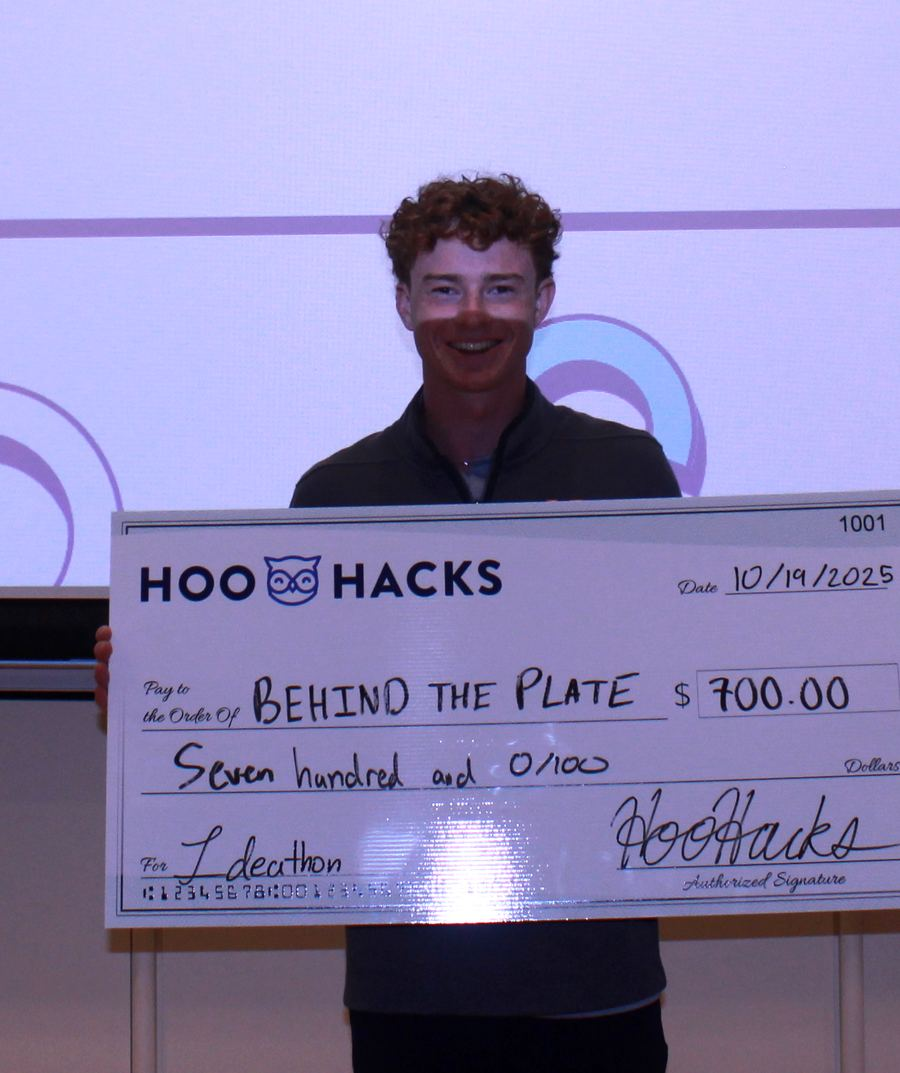
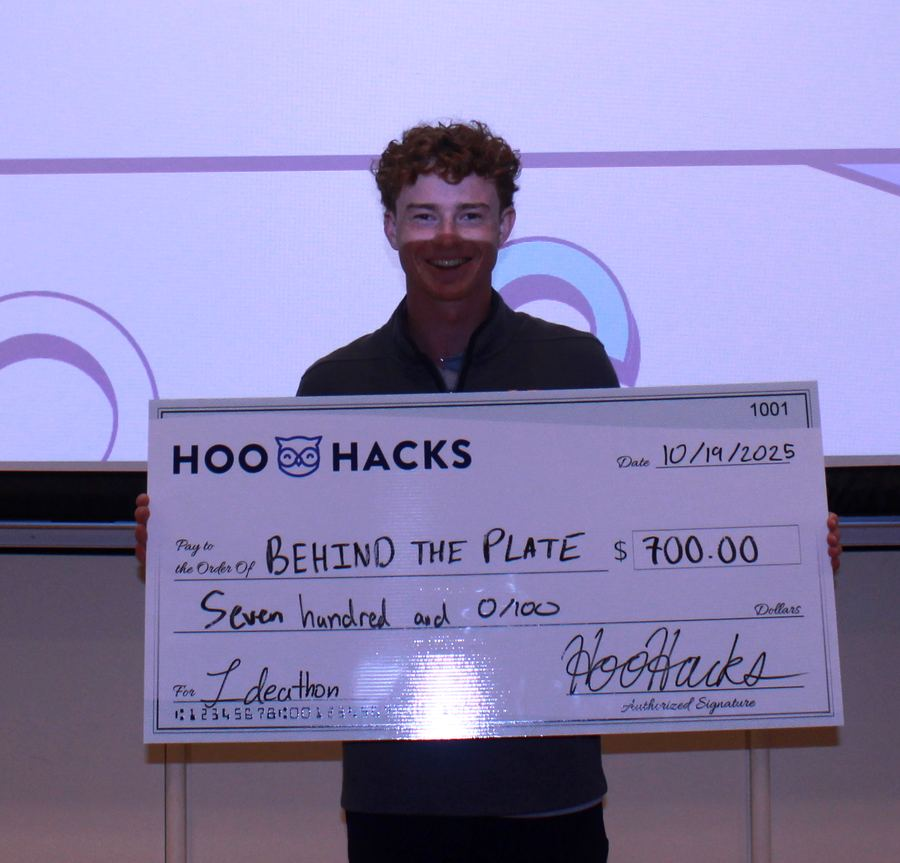
feature one winner photo instead of four so the form stays in view, and centre the sign-in card over the photos

Changed region(s): [[0.0, 0.1205, 1.0, 1.0], [0.8089, 0.9641, 0.84, 1.0]]

diff --git a/src/registrationUi.js b/src/registrationUi.js
@@ -51,53 +51,36 @@ function FactPills({ facts }) {
 }
 
 /**
- * Last year's winners, tiled in two columns at their own heights with tight
- * gutters, the way a board of pins sits. The team and prize are written under
- * each photo rather than laid over it, so the faces and the cheque stay clear.
+ * One photo, large, with what it shows written under it. Four tiles made the
+ * hero taller than the screen and pushed the form out of sight; one picture of
+ * a team holding the cheque says the same thing and leaves the form in view.
+ * Hidden on a phone, where it would sit between the title and the first field.
  */
-function PhotoBoard({ photos, title }) {
+function FeaturedPhoto({ photo, caption }) {
   return (
-    <Box component="section" aria-label={title}>
-      {title && (
-        <Typography variant="body2" sx={{ fontWeight: 600, color: "text.primary", mb: 1.25 }}>
-          {title}
+    <Box
+      component="figure"
+      sx={{ m: 0, display: { xs: "none", md: "block" }, justifySelf: "end", width: "100%", maxWidth: 380 }}
+    >
+      <Box
+        component="img"
+        src={photo.src}
+        alt={photo.alt}
+        width={photo.width}
+        height={photo.height}
+        sx={{
+          display: "block",
+          width: "100%",
+          height: "auto",
+          borderRadius: 4,
+          bgcolor: "action.hover",
+        }}
+      />
+      {caption && (
+        <Typography component="figcaption" variant="body2" sx={{ mt: 1, px: 0.5 }}>
+          {caption}
         </Typography>
       )}
-      <Box sx={{ columnCount: 2, columnGap: "8px" }}>
-        {photos.map((photo) => (
-          <Box
-            component="figure"
-            key={photo.src}
-            sx={{ m: 0, mb: 1.5, breakInside: "avoid" }}
-          >
-            <Box
-              component="img"
-              src={photo.src}
-              alt={photo.alt}
-              width={photo.width}
-              height={photo.height}
-              loading="lazy"
-              sx={{
-                display: "block",
-                width: "100%",
-                height: "auto",
-                borderRadius: 2,
-                bgcolor: "action.hover",
-              }}
-            />
-            {photo.team && (
-              <Box component="figcaption" sx={{ mt: 0.75, px: 0.25 }}>
-                <Typography variant="body2" component="span" sx={{ fontWeight: 700, color: "text.primary" }}>
-                  {photo.team}
-                </Typography>{" "}
-                <Typography variant="body2" component="span">
-                  won {photo.prize}
-                </Typography>
-              </Box>
-            )}
-          </Box>
-        ))}
-      </Box>
     </Box>
   );
 }
@@ -105,25 +88,17 @@ function PhotoBoard({ photos, title }) {
 /**
  * The top of a public page: what it is, when and where, and one sentence on
  * why you would come. `summary` is that sentence; the longer explanation, when
- * there is one, is `children` and sits in its own block under the hero rather
- * than inside it, so the hero reads in a glance.
+ * there is one, is `children`, set quieter under the facts.
  */
-export function Hero({ eyebrow, title, facts, summary, photos, photosTitle, children }) {
-  const hasPhotos = Array.isArray(photos) && photos.length > 0;
-  const details = children && (
-    <Typography variant="body1" sx={{ maxWidth: "62ch" }}>
-      {children}
-    </Typography>
-  );
-
+export function Hero({ eyebrow, title, facts, summary, photo, photoCaption, children }) {
   return (
-    <Box sx={{ pt: { xs: 4, md: 6 }, pb: { xs: 3, md: 4 } }}>
+    <Box sx={{ pt: { xs: 4, md: 6 }, pb: { xs: 3, md: 5 } }}>
       <Box
         sx={{
           display: "grid",
           gap: { xs: 3, md: 6 },
           alignItems: "center",
-          gridTemplateColumns: { xs: "1fr", md: hasPhotos ? "7fr 5fr" : "1fr" },
+          gridTemplateColumns: { xs: "1fr", md: photo ? "1fr auto" : "1fr" },
         }}
       >
         <Box>
@@ -152,21 +127,14 @@ export function Hero({ eyebrow, title, facts, summary, photos, photosTitle, chil
             </Typography>
           )}
           {facts && <FactPills facts={facts} />}
-          {/* without a summary the paragraph is the hero's own copy, as on
-              the closed page; with one, it moves below */}
-          {!summary && details && <Box sx={{ mt: 2.5 }}>{details}</Box>}
+          {children && (
+            <Typography variant="body1" sx={{ mt: 2.5, maxWidth: "58ch", color: "text.secondary" }}>
+              {children}
+            </Typography>
+          )}
         </Box>
-        {hasPhotos && <PhotoBoard photos={photos} title={photosTitle} />}
+        {photo && <FeaturedPhoto photo={photo} caption={photoCaption} />}
       </Box>
-
-      {summary && details && (
-        <Box sx={{ mt: { xs: 4, md: 5 }, p: { xs: 2.5, sm: 3 }, bgcolor: "action.hover", borderRadius: 2 }}>
-          <Typography variant="h3" component="h2" sx={{ mb: 1 }}>
-            About the day
-          </Typography>
-          {details}
-        </Box>
-      )}
     </Box>
   );
 }
@@ -455,6 +423,9 @@ export function PublicShell({ children, maxWidth = "lg", pad = false, backdrop =
              */
             "& input, & textarea": { scrollMarginBottom: 120 },
             ...(pad ? { py: { xs: 5, sm: 8 } } : null),
+            // over photos the card is the only thing on the page, so it sits in
+            // the middle of them rather than at the top with space below
+            ...(backdrop ? { display: "flex", flexDirection: "column", justifyContent: "center" } : null),
           }}
         >
           {children}

diff --git a/src/JudgeRegistration.js b/src/JudgeRegistration.js
@@ -415,8 +415,8 @@ const JudgeRegistrationForm = () => {
           title={`${EVENT.name} ${EVENT.year}`}
           facts={[EVENT.dateLabel, `Judging ${EVENT.judgingHours}`, EVENT.venue]}
           summary="Help UVA student teams shape an idea into a pitch, then score the pitches that win funding."
-          photos={PAST_WINNERS}
-          photosTitle={`Funded at Ideathon ${PAST_WINNERS_YEAR}`}
+          photo={PAST_WINNERS[0]}
+          photoCaption={`${PAST_WINNERS[0].team} won ${PAST_WINNERS[0].prize} at Ideathon ${PAST_WINNERS_YEAR}.`}
         >
           Student teams spend the day developing an idea into a pitch. Mentors take one-hour
           shifts helping teams shape their work; judges score the pitches in the evening and

diff --git a/src/Registration.js b/src/Registration.js
@@ -352,8 +352,8 @@ const RegistrationForm = () => {
           title={`${EVENT.name} ${EVENT.year}`}
           facts={[EVENT.dateLabel, EVENT.hours, EVENT.venue]}
           summary="Build an idea with a team in one day, then pitch it to judges for funding."
-          photos={PAST_WINNERS}
-          photosTitle={`Funded at Ideathon ${PAST_WINNERS_YEAR}`}
+          photo={PAST_WINNERS[0]}
+          photoCaption={`${PAST_WINNERS[0].team} won ${PAST_WINNERS[0].prize} at Ideathon ${PAST_WINNERS_YEAR}.`}
         >
           A one-day event for UVA students from technical and business backgrounds, working
           in teams on a single idea. You must be a currently enrolled UVA student and 18 or

diff --git a/src/winners.js b/src/winners.js
@@ -16,7 +16,7 @@ export const PAST_WINNERS = [
         prize: "$700",
         src: photo("winner-behind-the-plate.jpg"),
         width: 900,
-        height: 1073,
+        height: 863,
     },
     {
         team: "ClearCause",
